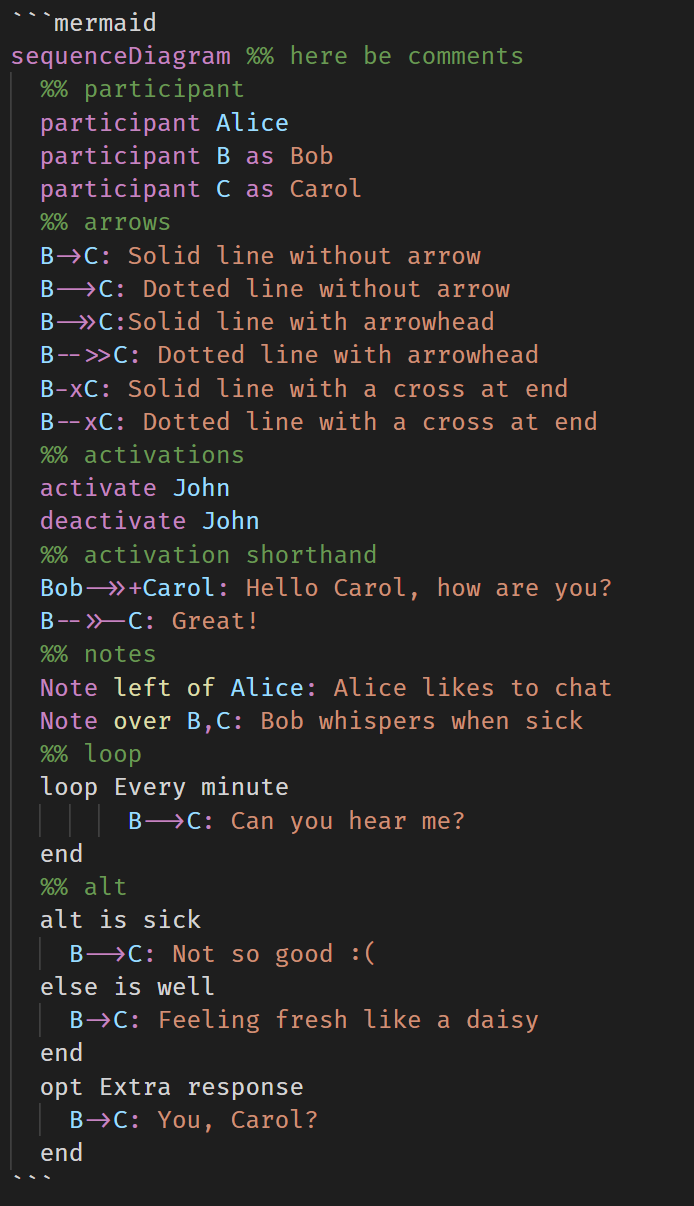
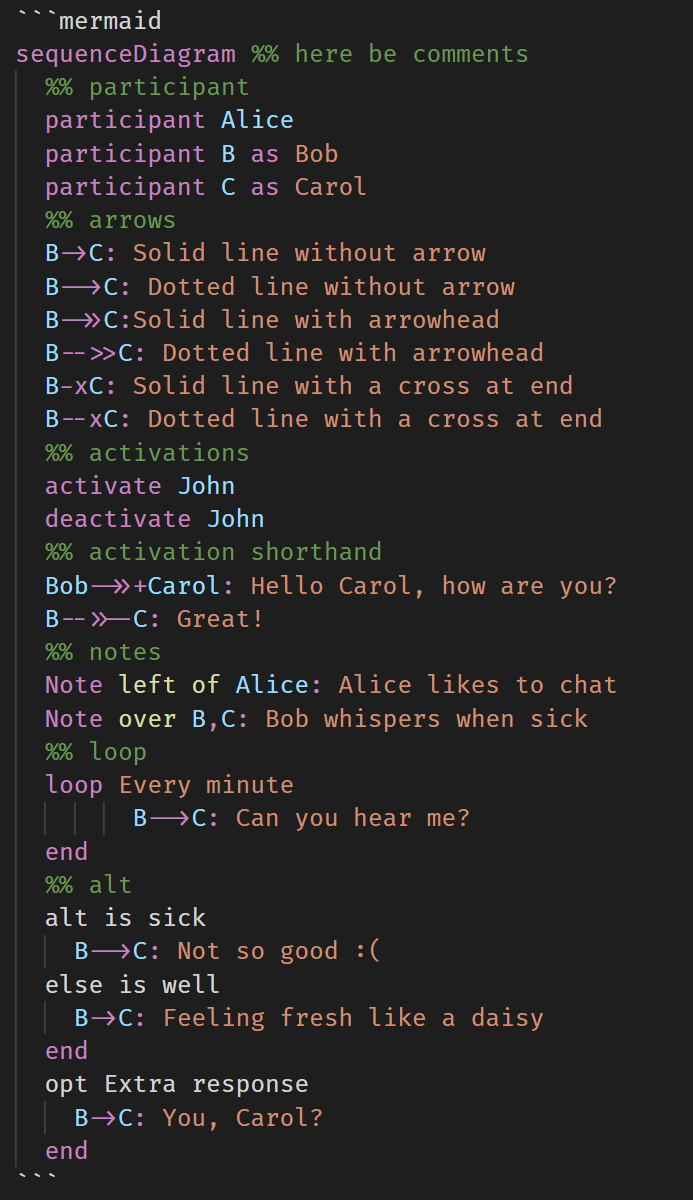
docs: update sequence screenshot with loop

diff --git a/README.md b/README.md
@@ -101,7 +101,7 @@ sequenceDiagram %% diagram
 - [x] activate/deactivate shorthand (+/-)
 - [x] Note Action Actor
 - [x] Multi-actor notes
-- [ ] loop
+- [x] loop
 - [ ] alt
 - [ ] alt optional
 
